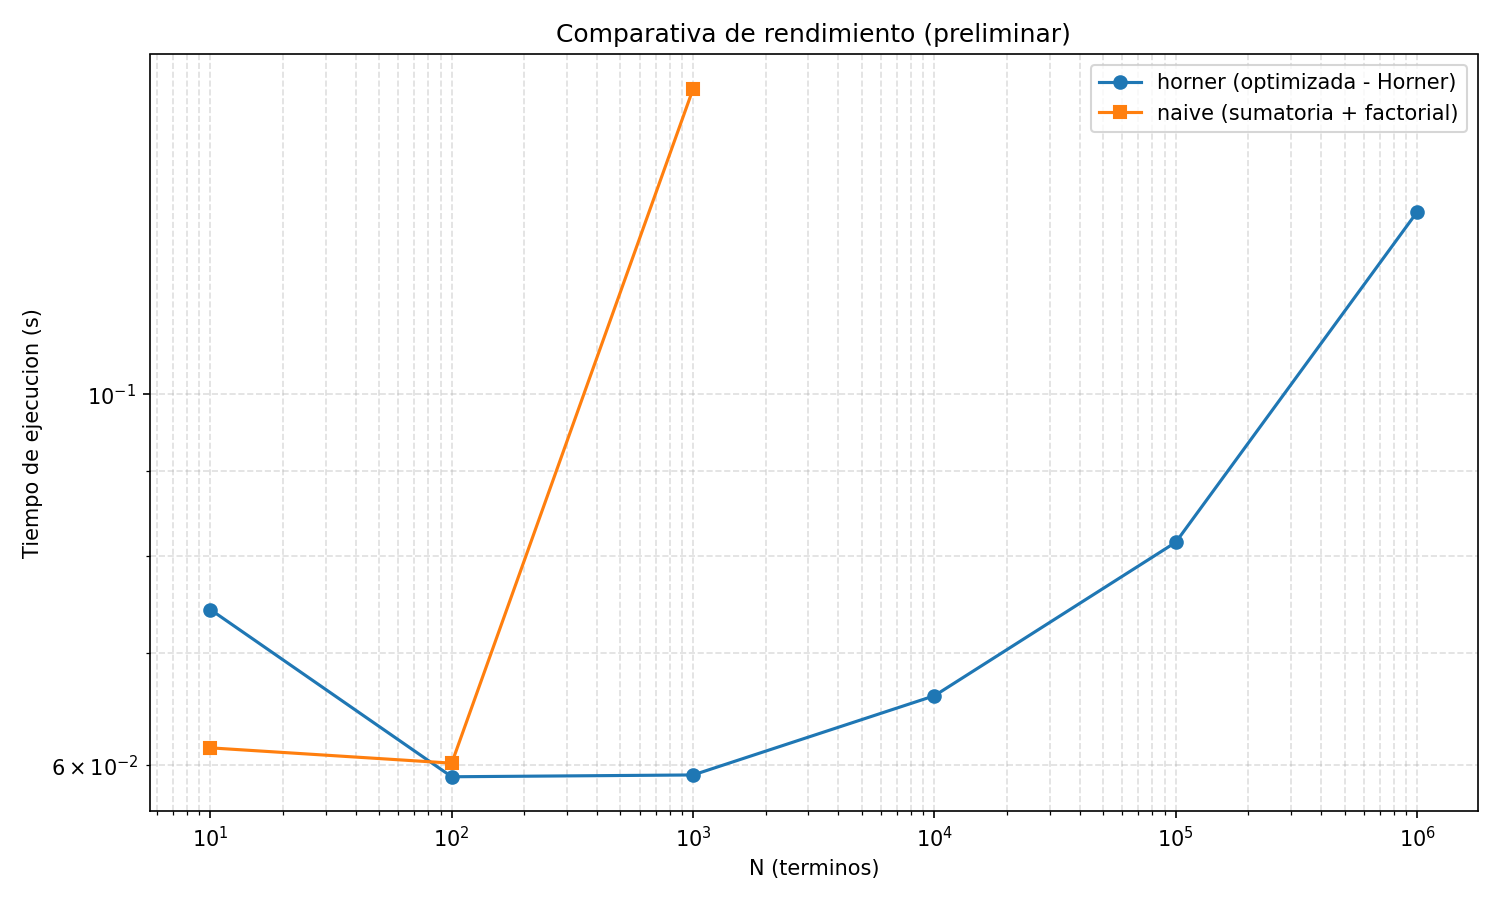
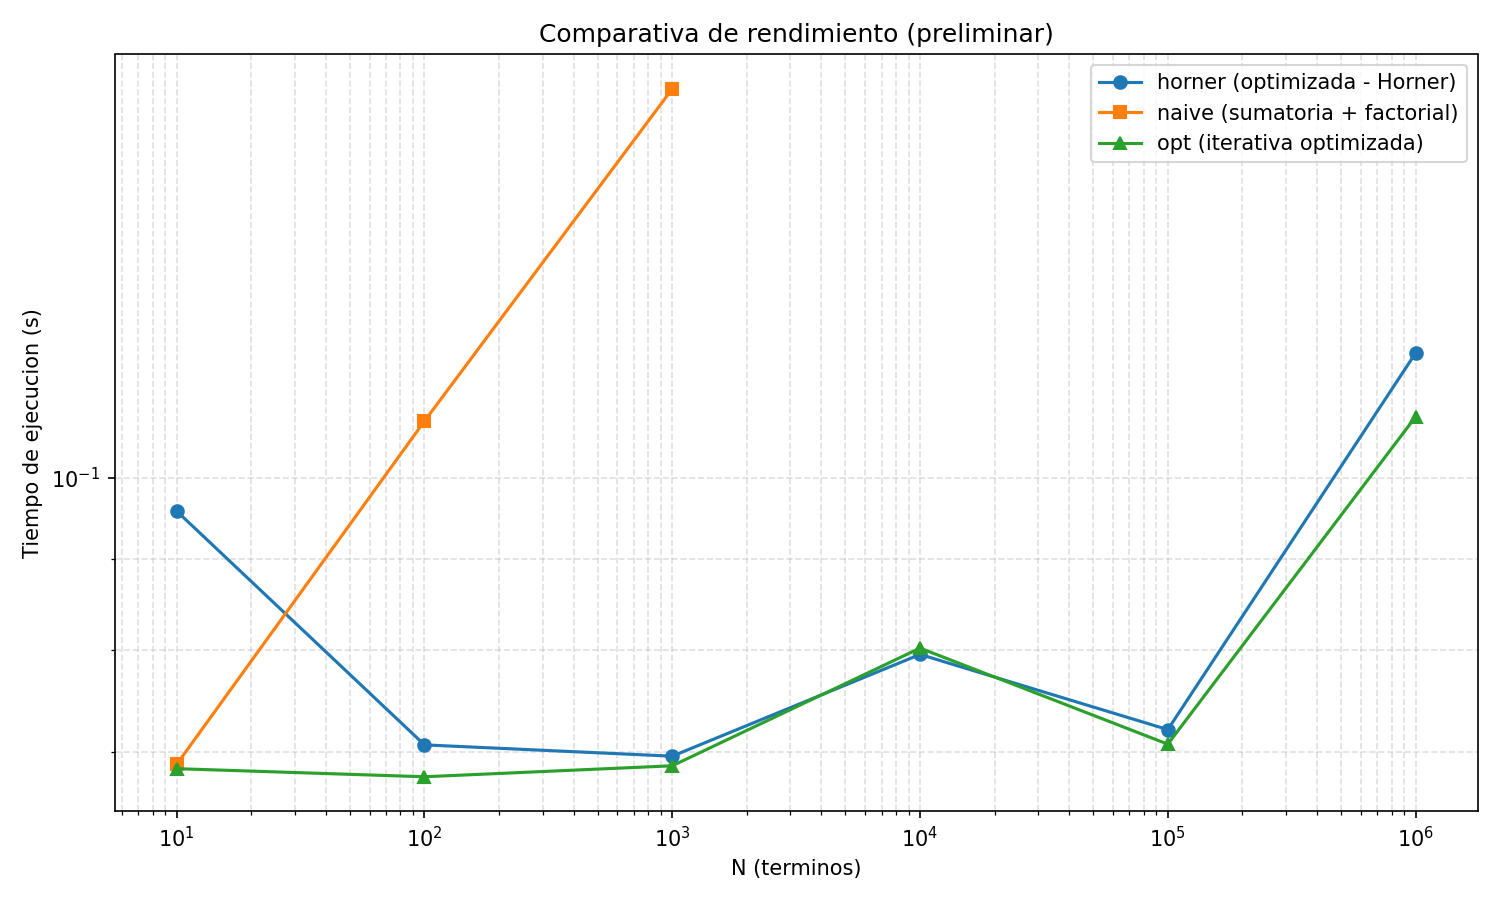
Add optimized Taylor series function and update benchmark results; enhance performance plots

diff --git a/benchmark_analysis.py b/benchmark_analysis.py
@@ -4,7 +4,7 @@ import multiprocessing as mp
 import time
 from pathlib import Path
 
-from taylor import taylor_e_x_horner, taylor_e_x_naive
+from taylor import taylor_e_x_horner, taylor_e_x_naive, taylor_e_x_optmizada
 
 
 X_VALUE = 4
@@ -13,7 +13,7 @@ OUTPUT_CSV = Path("benchmark_results.csv")
 PLOT_FILE = Path("performance_vs_n.png")
 PRELIM_PLOT_FILE = Path("performance_vs_n_preliminar.png")
 PRELIM_AFTER_SECONDS = 10
-MAX_SECONDS_PER_CALL = 15
+MAX_SECONDS_PER_CALL = 25
 
 
 def _worker(func, x, n, queue):
@@ -74,13 +74,14 @@ def write_csv(rows):
 
 def print_summary(rows):
     print("Resumen de resultados:")
-    print("N | horner_time(s) | horner_rel_error | naive_time(s) | naive_rel_error | naive_status")
+    print("N | horner_time(s) | horner_rel_error | naive_time(s) | naive_rel_error | opt_time(s) | opt_rel_error | opt_status")
     for r in rows:
         t1_rel = f"{r['t1_rel_error']:.3e}" if r["t1_rel_error"] is not None else "-"
         t2_rel = f"{r['t2_rel_error']:.3e}" if r["t2_rel_error"] is not None else "-"
+        t3_rel = f"{r['t3_rel_error']:.3e}" if r["t3_rel_error"] is not None else "-"
         print(
             f"{r['n']:>7} | {r['t1_time']:>10.6f} | {t1_rel:>12} | "
-            f"{r['t2_time']:>10.6f} | {t2_rel:>12} | {r['t2_status']}"
+            f"{r['t2_time']:>10.6f} | {t2_rel:>12} | {r['t3_time']:>10.6f} | {t3_rel:>12} | {r['t3_status']}"
         )
 
 
@@ -93,10 +94,15 @@ def save_plot(rows, output_file, title):
     ns_2 = [r["n"] for r in rows if r["t2_status"] == "ok"]
     t2_times = [r["t2_time"] for r in rows if r["t2_status"] == "ok"]
 
+    ns_3 = [r["n"] for r in rows if r.get("t3_status") == "ok"]
+    t3_times = [r["t3_time"] for r in rows if r.get("t3_status") == "ok"]
+
     plt.figure(figsize=(10, 6))
     plt.plot(ns_1, t1_times, marker="o", label="horner (optimizada - Horner)")
     if ns_2:
         plt.plot(ns_2, t2_times, marker="s", label="naive (sumatoria + factorial)")
+    if ns_3:
+        plt.plot(ns_3, t3_times, marker="^", label="opt (iterativa optimizada)")
     plt.xscale("log")
     plt.yscale("log")
     plt.xlabel("N (terminos)")
@@ -145,6 +151,11 @@ def main():
                 "t2_abs_error": None,
                 "t2_rel_error": None,
                 "t2_status": "ok",
+                "t3_time": None,
+                "t3_value": None,
+                "t3_abs_error": None,
+                "t3_rel_error": None,
+                "t3_status": "ok",
             }
 
             print(f"  - Ejecutando horner (optimizada) para N={n}...", flush=True)
@@ -166,6 +177,16 @@ def main():
                 row["t2_rel_error"] = relative_error(t2["value"], reference)
             else:
                 row["t2_status"] = t2["error"]
+
+            print(f"  - Ejecutando opt (iterativa optimizada) para N={n}...", flush=True)
+            t3 = timed_call(taylor_e_x_optmizada, X_VALUE, n, timeout_seconds=MAX_SECONDS_PER_CALL)
+            row["t3_time"] = t3["time"]
+            if t3["ok"]:
+                row["t3_value"] = t3["value"]
+                row["t3_abs_error"] = abs(t3["value"] - reference)
+                row["t3_rel_error"] = relative_error(t3["value"], reference)
+            else:
+                row["t3_status"] = t3["error"]
 
             rows.append(row)
 
